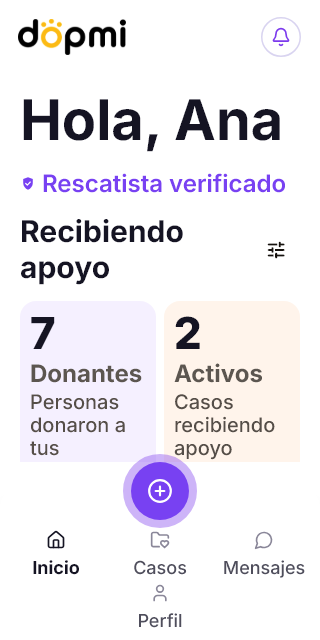
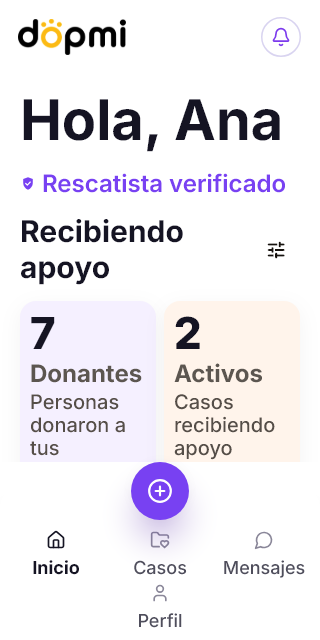
fix: match 9ced home metric card geometry [skip ci]

Changed region(s): [[0.375, 0.6875, 0.625, 0.8438]]

diff --git a/apps/mobile/lib/features/rescue/rescuer_home_screen.dart b/apps/mobile/lib/features/rescue/rescuer_home_screen.dart
@@ -799,13 +799,15 @@ class _HomeFunnelCard extends StatelessWidget {
               if (MediaQuery.textScalerOf(context).scale(22) <= 28)
                 ExcludeSemantics(
                   child: CustomPaint(
-                    size: const Size(40, 28),
+                    size: const Size(48, 32),
                     painter: _FunnelDecoration(tone),
                   ),
                 ),
             ],
           ),
-          const SizedBox(height: 4),
+          SizedBox(
+            height: MediaQuery.textScalerOf(context).scale(22) <= 28 ? 9 : 4,
+          ),
           Text(
             entry.$3,
             style: const TextStyle(
@@ -818,6 +820,12 @@ class _HomeFunnelCard extends StatelessWidget {
           const SizedBox(height: 2),
           Text(
             entry.$4,
+            maxLines: MediaQuery.textScalerOf(context).scale(22) <= 28
+                ? 1
+                : null,
+            overflow: MediaQuery.textScalerOf(context).scale(22) <= 28
+                ? TextOverflow.ellipsis
+                : TextOverflow.visible,
             style: const TextStyle(
               fontSize: 10,
               height: 1.15,

diff --git a/apps/mobile/test/rescuer_home_screen_test.dart b/apps/mobile/test/rescuer_home_screen_test.dart
@@ -519,6 +519,23 @@ void main() {
     expect(tester.takeException(), isNull);
   });
 
+  testWidgets('normal funnel cards preserve the source 92 pixel geometry', (
+    tester,
+  ) async {
+    final fonts = FontLoader('Inter')
+      ..addFont(rootBundle.load('assets/fonts/Inter.ttf'));
+    await fonts.load();
+    await pumpHome(tester, HomeRescue());
+    final card = find.byKey(const ValueKey('home-metric-donors'));
+    expect(tester.getSize(card).height, closeTo(92, .01));
+    final label = find.descendant(of: card, matching: find.text('Donantes'));
+    expect(
+      tester.getTopLeft(label).dy - tester.getTopLeft(card).dy,
+      closeTo(51, .01),
+    );
+    expect(tester.takeException(), isNull);
+  });
+
   testWidgets('program tabs reveal full support label by drag at 200 percent', (
     tester,
   ) async {

diff --git a/docs/parity-current-review.md b/docs/parity-current-review.md
@@ -1,5 +1,26 @@
 # Cierre de paridad — tablero vigente
 
+## 7/10/2026 — Delta9ced: geometría de las tarjetas de Inicio
+
+Contraste Source9ced ejecutado Chrome377×852 /rescuer: tarjetas medidas92px,
+padding10/10/8, ornamento48×32 y copy a51.05px del borde superior. CSS confirma
+rejilla192px/2filas/gap8 y descripción en una línea con ellipsis. Flutter dejaba
+la descripción envolver, alargando las tarjetas normales. Corregida geometría:
+ornamento48×32, espacio9 antes del título y hint de una línea para escala normal;
+texto ampliado conserva crecimiento/lectura y semántica completa.
+No alterar datos netos, moderación ni eliminar la nota de alcance de métricas.
+
+Suite afectada82786 exit0,14/14 en6s, incluyendo92px/copy51px y320/200%.
+Recaptura final62004 exit0,3/3 en3s normal/115%/320200%; normal inspeccionada.
+Sombras reales activadas; capturador auxiliar restauró debugDisableShadows
+antes del invariant final tras un fallo exclusivo de herramienta63414.
+Imágenes actualizadas en design-reviews/parity-integral9ced. No publicación
+nueva: Play300 anterior a estas correcciones. Analyzer focal87633 exit0, sin incidencias en50.4s.
+Viewport restaurado y servidor propio10972 detenido; teléfono intacto.
+Siguiente: comparación visual de Perfil/redes, modal período/tips y encabezados/
+final del mismo delta; no reabrir familias anteriores.
+
+
 ## 7/10/2026 — Corte de QA acotado por el titular: sólo delta9ced
 
 El titular aclara: «Solo tienes que asegurarte de que la delta se vea igual,

diff --git a/docs/progress.md b/docs/progress.md
@@ -1,5 +1,26 @@
 # Dopmi — registro de avance
 
+## 7/10/2026 — Delta9ced: geometría de las tarjetas de Inicio
+
+Contraste Source9ced ejecutado Chrome377×852 /rescuer: tarjetas medidas92px,
+padding10/10/8, ornamento48×32 y copy a51.05px del borde superior. CSS confirma
+rejilla192px/2filas/gap8 y descripción en una línea con ellipsis. Flutter dejaba
+la descripción envolver, alargando las tarjetas normales. Corregida geometría:
+ornamento48×32, espacio9 antes del título y hint de una línea para escala normal;
+texto ampliado conserva crecimiento/lectura y semántica completa.
+No alterar datos netos, moderación ni eliminar la nota de alcance de métricas.
+
+Suite afectada82786 exit0,14/14 en6s, incluyendo92px/copy51px y320/200%.
+Recaptura final62004 exit0,3/3 en3s normal/115%/320200%; normal inspeccionada.
+Sombras reales activadas; capturador auxiliar restauró debugDisableShadows
+antes del invariant final tras un fallo exclusivo de herramienta63414.
+Imágenes actualizadas en design-reviews/parity-integral9ced. No publicación
+nueva: Play300 anterior a estas correcciones. Analyzer focal87633 exit0, sin incidencias en50.4s.
+Viewport restaurado y servidor propio10972 detenido; teléfono intacto.
+Siguiente: comparación visual de Perfil/redes, modal período/tips y encabezados/
+final del mismo delta; no reabrir familias anteriores.
+
+
 ## 7/10/2026 — Corte de QA acotado por el titular: sólo delta9ced
 
 El titular aclara: «Solo tienes que asegurarte de que la delta se vea igual,

diff --git a/docs/mock-sync-current.md b/docs/mock-sync-current.md
@@ -21,7 +21,10 @@ Sólo UX01–07/09; tiendaUX08 excluida. No repetir pruebas/fixtures intactas ni
 reabrir entregas cerradas. Source9ced congelado. Cambios previos preservados.
 Corrección propia2a1c2a2 de pestañas320/200% validada:13tests, analyze limpio,
 recapturas normal/115%/200%; todavía no incorporada a Play300.
-Siguiente: comparación Source/Flutter del delta (Inicio, métricas/período/tips/
+Nueva comparación Source377×852 detectó tarjetas alargadas: corregidas92px,
+hint de una línea y ornamento48×32;14tests y3recapturas aprobadas. Analyzer87633
+aprobado sin incidencias. La escala ampliada conserva texto completo.
+Siguiente: comparación Source/Flutter del resto del delta (Inicio, métricas/período/tips/
 actividad, Perfil/redes, encabezados de Apoyar y final de Adoptar), resolver
 sólo diferencias demostradas y ejecutar gates afectados/candidato consolidado.
 No nueva aceptación anterior requerida, ni alteración de cuenta del titular.
